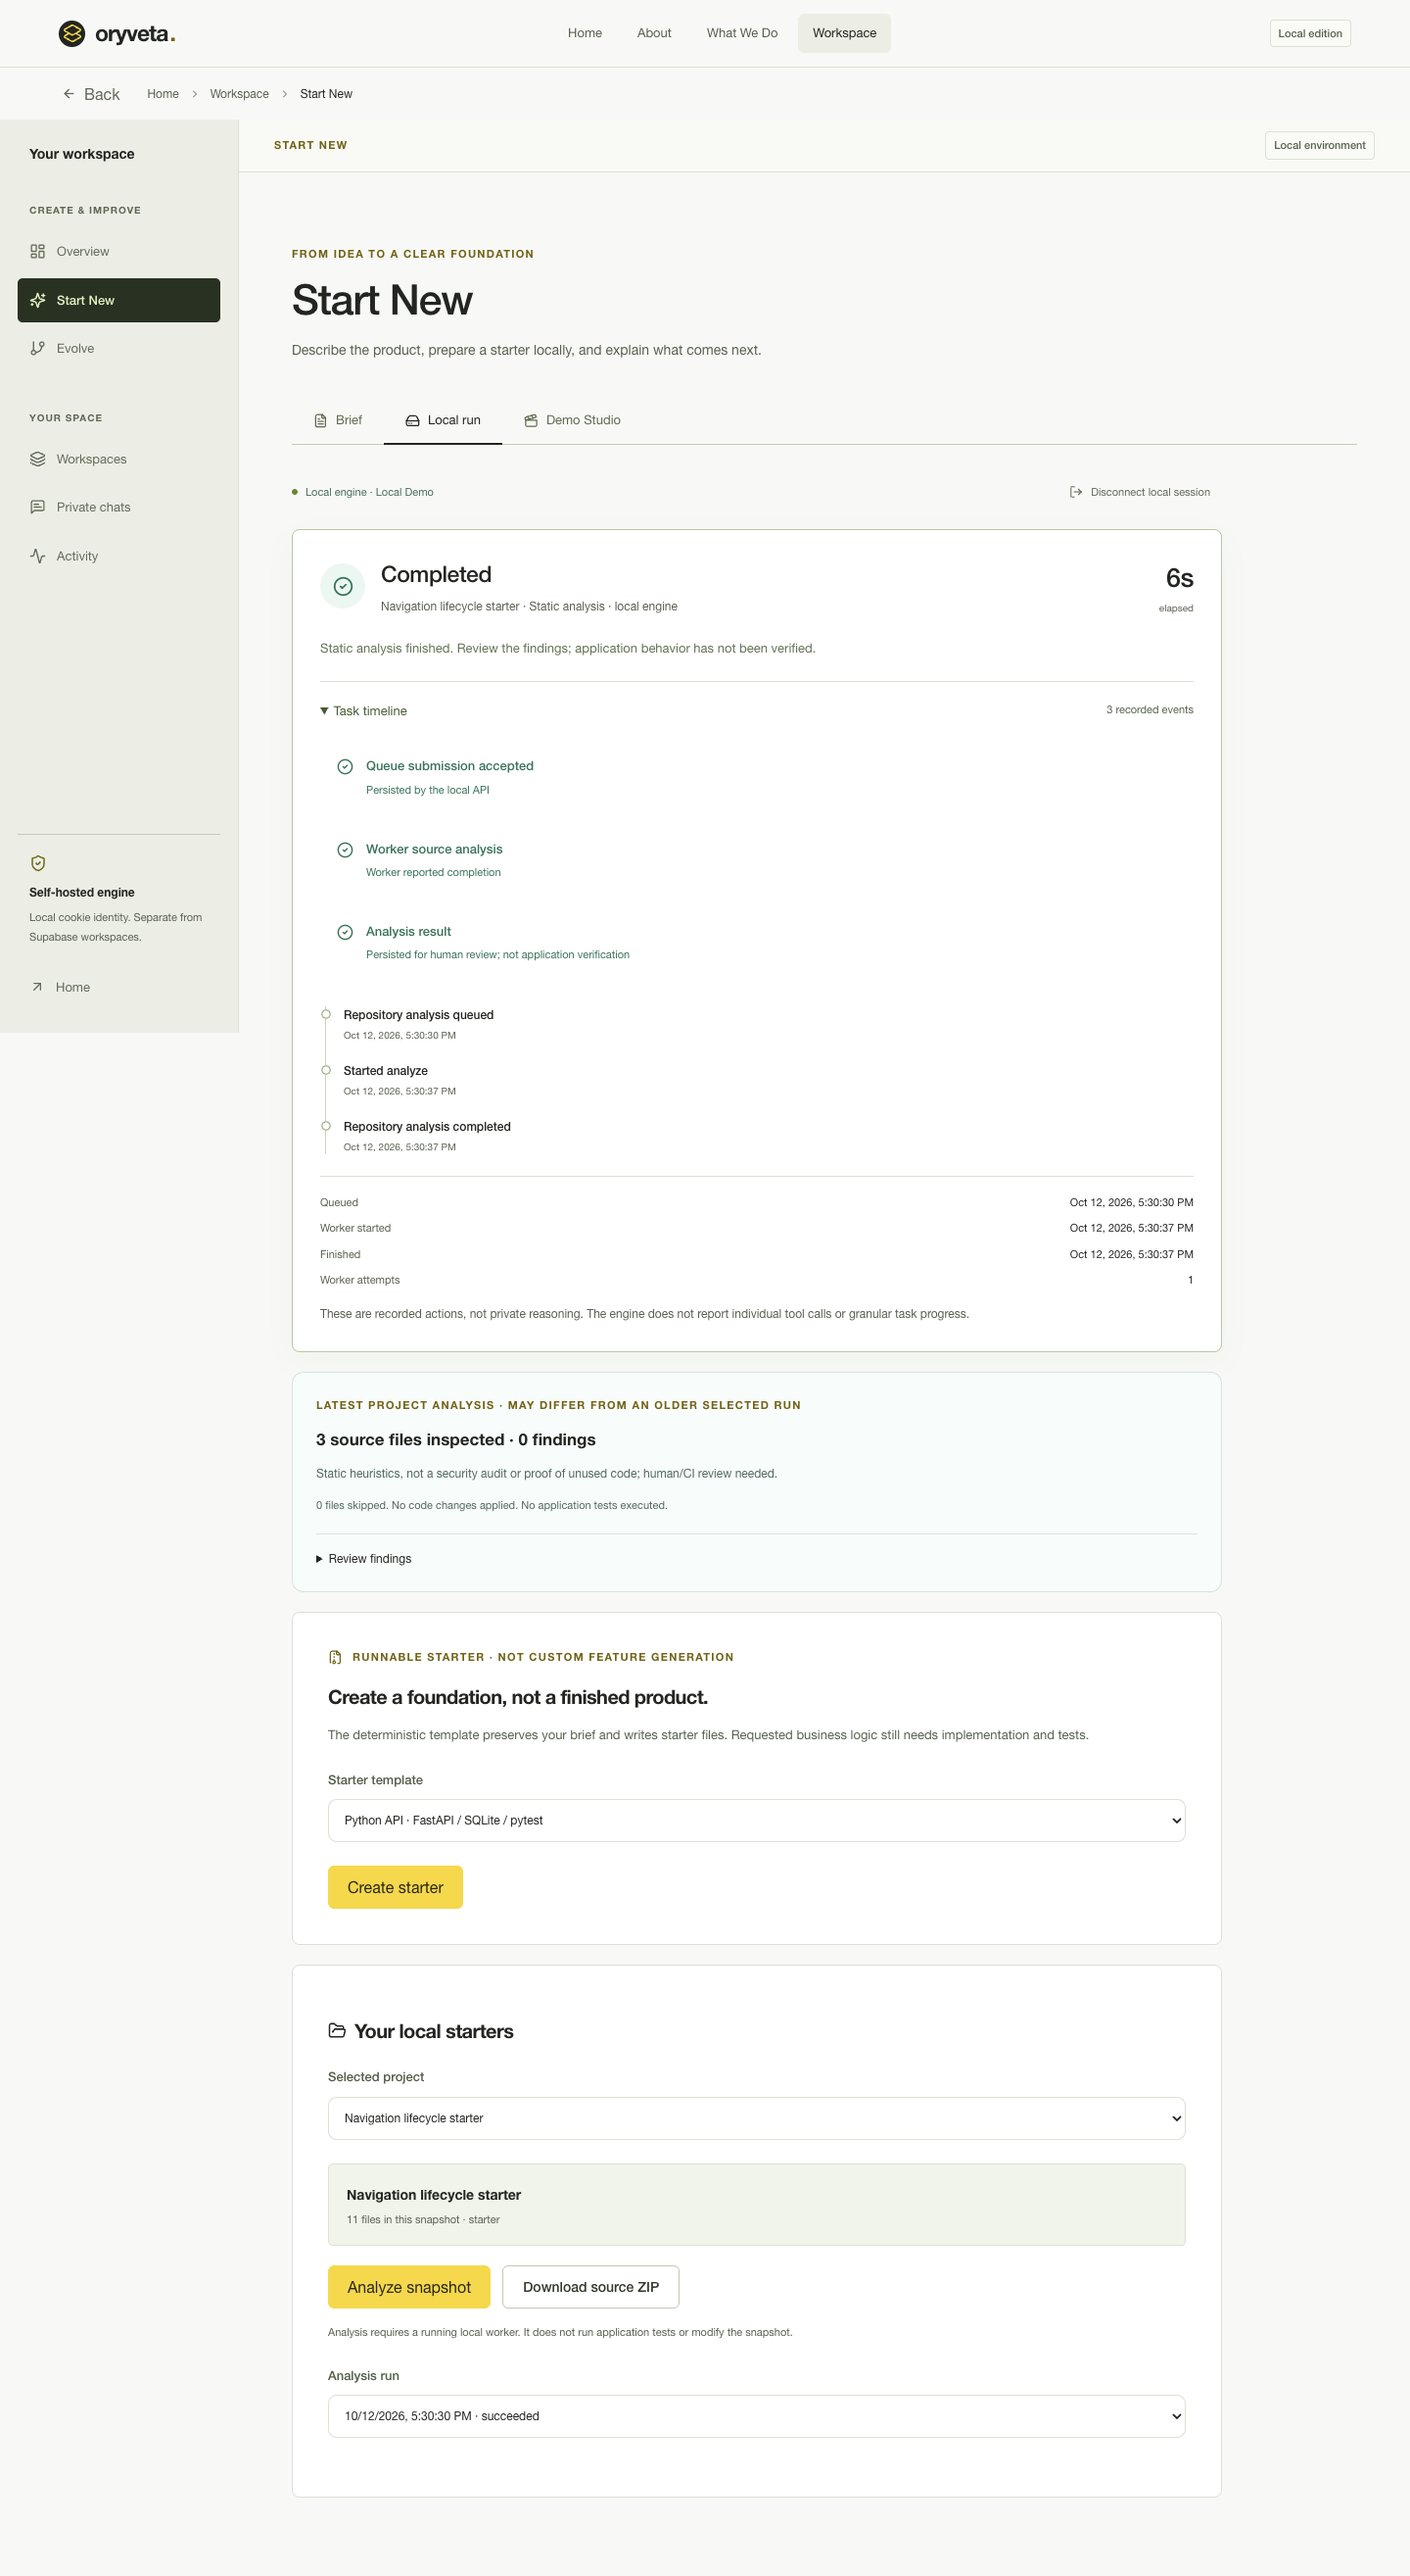
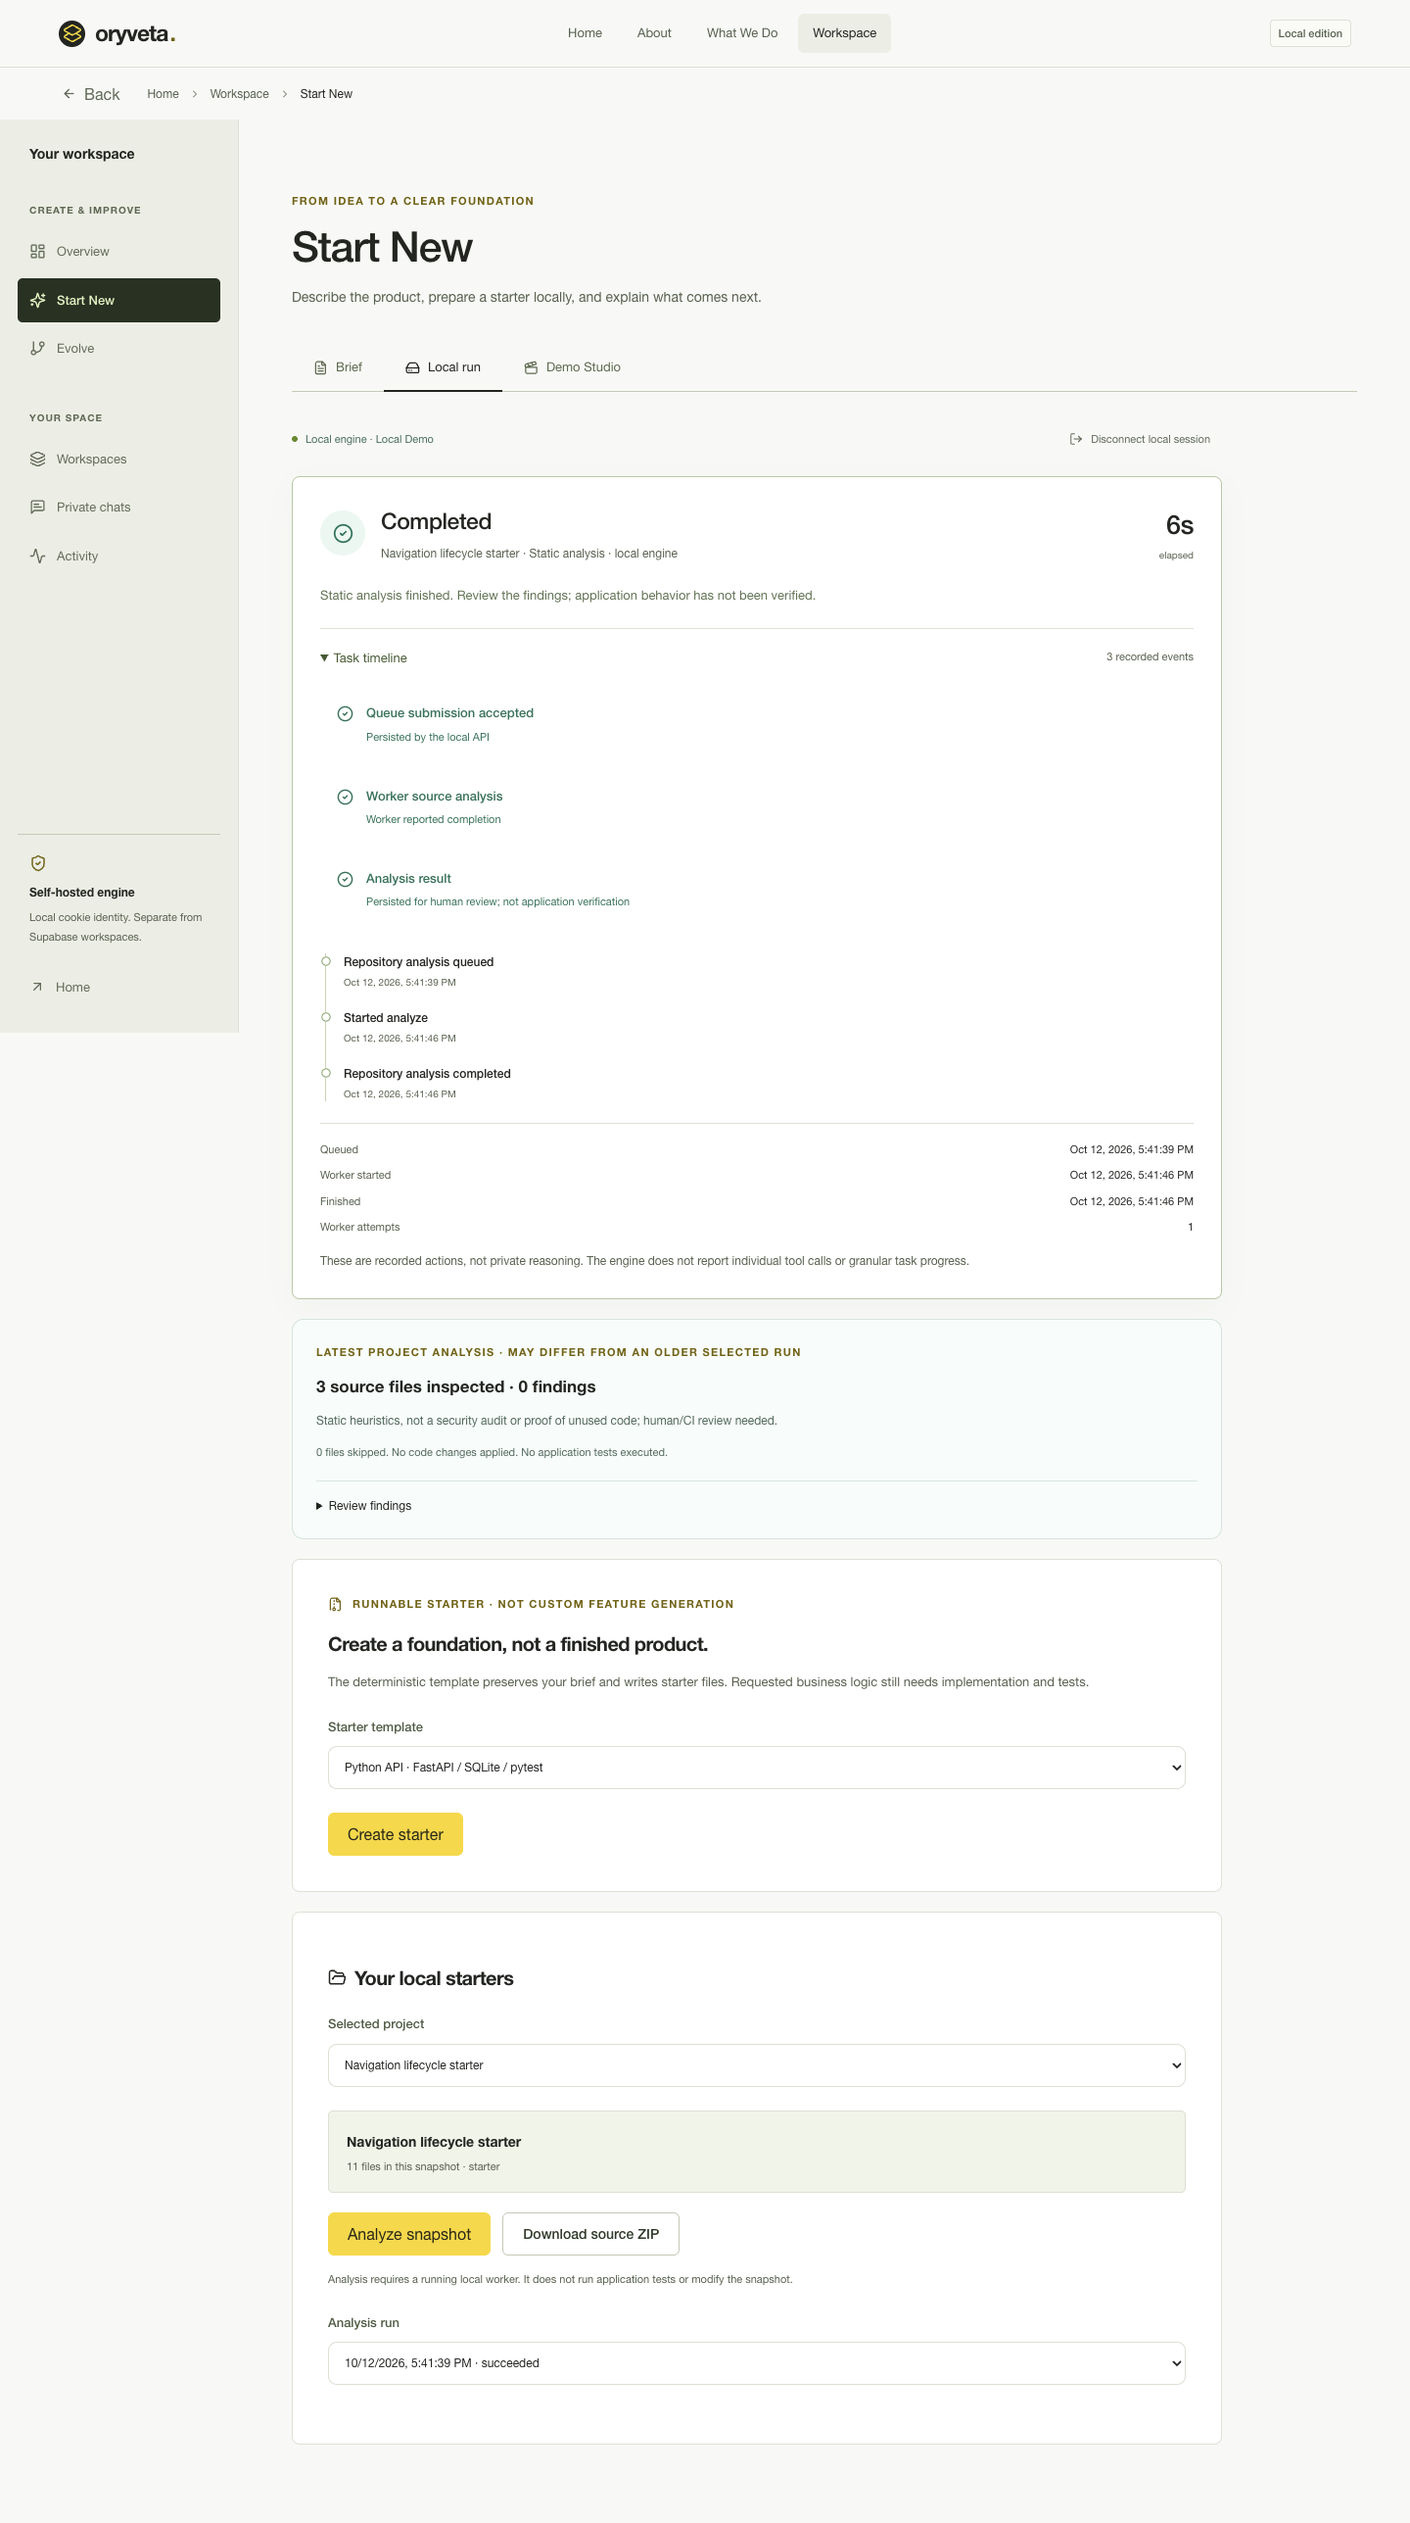
Remove duplicate workspace chrome and align legacy smoke routing

diff --git a/apps/web/studio/src/pages/Workspace.jsx b/apps/web/studio/src/pages/Workspace.jsx
@@ -92,7 +92,6 @@ export default function Workspace({
   const draft = ownsLocalSelection
     ? storedDraft
     : { ...storedDraft, projectId: null, jobId: null };
-  const navigation = [...primaryNavigation, ...secondaryNavigation];
 
   async function refresh() {
     if (preview || selfHosted) return;
@@ -220,6 +219,7 @@ export default function Workspace({
     );
   }
   const locked = preview || selfHosted;
+  const hasWorkspaceSwitch = !locked && spaces.length > 0;
   return (
     <div className="workspace-shell">
       <aside className="workspace-sidebar">{sidebar()}</aside>
@@ -240,44 +240,32 @@ export default function Workspace({
         {sidebar()}
       </dialog>
       <div className="workspace-content">
-        <div className="workspace-topbar">
-          <div className="flex items-center gap-3 min-w-0">
-            <Button
-              size="icon"
-              variant="ghost"
-              className="mobile-menu-trigger"
-              onClick={() => mobileNav.current.showModal()}
-              aria-label="Open workspace menu"
+        <div
+          className={`workspace-controls ${hasWorkspaceSwitch ? "has-workspace-switch" : ""}`}
+        >
+          <Button
+            size="icon"
+            variant="ghost"
+            className="mobile-menu-trigger"
+            onClick={() => mobileNav.current.showModal()}
+            aria-label="Open workspace menu"
+          >
+            <Menu size={20} />
+          </Button>
+          {hasWorkspaceSwitch && (
+            <select
+              className="workspace-switch"
+              aria-label="Active workspace"
+              value={active?.id || ""}
+              onChange={(event) => setSelected(event.target.value)}
             >
-              <Menu size={20} />
-            </Button>
-            <span className="section-label">
-              {navigation.find((item) => item[0] === page)?.[2]}
-            </span>
-          </div>
-          <div className="flex items-center gap-3">
-            {!locked && spaces.length > 0 && (
-              <select
-                className="workspace-switch"
-                aria-label="Active workspace"
-                value={active?.id || ""}
-                onChange={(event) => setSelected(event.target.value)}
-              >
-                {spaces.map((space) => (
-                  <option key={space.id} value={space.id}>
-                    {space.name}
-                  </option>
-                ))}
-              </select>
-            )}
-            <span className="status-tag">
-              {selfHosted
-                ? "Local environment"
-                : preview
-                  ? "Preview"
-                  : "Signed in"}
-            </span>
-          </div>
+              {spaces.map((space) => (
+                <option key={space.id} value={space.id}>
+                  {space.name}
+                </option>
+              ))}
+            </select>
+          )}
         </div>
         <main className="workspace-main" id="main-content" tabIndex={-1}>
           {!selfHosted && (

diff --git a/apps/web/studio/src/index.css b/apps/web/studio/src/index.css
@@ -69,8 +69,6 @@ main[tabindex="-1"]:focus { outline: none; }
 .sidebar-note strong { font-size: 12px; font-weight: 600; display: block; }
 .sidebar-note p { font-size: 11px; color: var(--muted); line-height: 1.8; margin-top: 7px; }
 .workspace-content { flex: 1; min-width: 0; }
-.workspace-topbar { min-height: 76px; display: flex; align-items: center; justify-content: space-between; gap: 16px; padding: 12px 36px; background: #f9faf5; border-bottom: 1px solid var(--border); }
-.workspace-topbar strong { font-size: 13px; font-weight: 500; }
 .workspace-switch { width: auto; max-width: 220px; min-height: 36px; padding: 6px 12px; }
 .workspace-main { max-width: 1280px; margin: auto; padding: 36px clamp(22px, 4vw, 54px) 80px; outline: none; }
 .page-heading { margin: 38px 0 36px; }
@@ -194,7 +192,6 @@ main[tabindex="-1"]:focus { outline: none; }
 @media (max-width: 1100px) {
   .section-container { width: calc(100% - 64px); }
   .workspace-sidebar { width: 210px; padding-inline: 12px; }
-  .workspace-topbar { padding-inline: 24px; }
   .brief-layout { grid-template-columns: 1fr; }
   .journey-guide { padding: 10px 0; }
   .journey-guide h3 br { display: none; }
@@ -207,12 +204,10 @@ main[tabindex="-1"]:focus { outline: none; }
   .auth-panel { padding: 24px; }
   .workspace-sidebar { display: none; }
   .workspace-main { padding-inline: 24px; }
-  .workspace-topbar { padding-inline: 20px; }
 }
 @media (max-width: 600px) {
   [id] { scroll-margin-top: 85px; }
   .section-container { width: calc(100% - 40px); }
-  .workspace-topbar { padding: 12px; }
   .workspace-switch { max-width: 110px; font-size: 10px; padding: 6px; }
   .workspace-main { padding: 20px 16px 60px; }
   .page-heading { margin-top: 28px; }

diff --git a/apps/web/studio/src/pages.css b/apps/web/studio/src/pages.css
@@ -91,7 +91,8 @@
 .workspace-shell { min-height: calc(100svh - 122px); }
 .workspace-sidebar { top: 68px; min-height: calc(100svh - 122px); height: calc(100svh - 68px); padding-top: 24px; }
 .workspace-sidebar-title { padding: 0 12px; font-size: 14px; font-weight: 600; }
-.workspace-topbar { min-height: 54px; padding-block: 8px; }
+.workspace-controls { display: none; align-items: center; justify-content: flex-end; gap: 12px; padding: 8px 24px; }
+.workspace-controls.has-workspace-switch { display: flex; }
 .workspace-main .page-heading h1 { font-size: clamp(30px, 3.3vw, 43px); }
 @media (max-width: 850px) {
   .site-header-inner { width: calc(100% - 32px); height: 62px; }
@@ -100,6 +101,7 @@
   .home-back { padding-inline: 8px; }
   .home-back span { display: none; }
   .route-trail { padding-inline: 12px; gap: 6px; }
+  .workspace-controls { display: flex; justify-content: space-between; padding: 6px 16px; }
   .home-intro { padding-top: 32px; }
   .home-next, .editorial-split, .journey-detail, .delivery-boundaries, .signin-page { grid-template-columns: 1fr; gap: 32px; }
   .home-next { padding-block: 65px; }

diff --git a/scripts/ui_smoke.py b/scripts/ui_smoke.py
@@ -1,4 +1,4 @@
-"""Browser smoke for Oryveta's hosted auth gate and engineering workspace.
+"""Browser smoke for Oryveta's preserved legacy local UI.
 
 Tests guest sign-in, explicit preview access, mobile navigation and an
 authenticated workspace lifecycle with a deterministic mocked Auth adapter.
@@ -6,7 +6,6 @@ No real OAuth secrets or external identity calls run in CI.
 """
 from __future__ import annotations
 
-import json
 import threading
 from http.server import SimpleHTTPRequestHandler, ThreadingHTTPServer
 from pathlib import Path
@@ -14,8 +13,6 @@ from pathlib import Path
 from playwright.sync_api import sync_playwright
 
 ROOT = Path(__file__).resolve().parents[1] / "apps" / "web"
-CONFIG = json.loads((ROOT / "vercel.json").read_text(encoding="utf-8"))
-REWRITES = {item["source"]: item["destination"] for item in CONFIG["rewrites"]}
 
 
 class StaticHandler(SimpleHTTPRequestHandler):
@@ -32,7 +29,10 @@ class StaticHandler(SimpleHTTPRequestHandler):
         super().do_GET()
 
     def translate_path(self, path):
-        return super().translate_path(REWRITES.get(path, path))
+        # Match FastAPI's local /static mount, not the separate hosted React build.
+        if path.startswith("/static/"):
+            path = path[len("/static"):]
+        return super().translate_path(path)
 
 
 FAKE_AUTH = """
@@ -59,8 +59,6 @@ FAKE_AUTH = """
 
 
 def run() -> None:
-    for name in ("app.js", "styles.css", "cloud-auth.js", "cloud-config.js"):
-        assert REWRITES["/static/" + name] == "/" + name
     server = ThreadingHTTPServer(("127.0.0.1", 0), StaticHandler)
     thread = threading.Thread(target=server.serve_forever, daemon=True)
     thread.start()
@@ -77,6 +75,10 @@ def run() -> None:
                 page.on("pageerror", lambda err: errors.append(str(err)))
                 response = page.goto(url, wait_until="networkidle", timeout=30000)
                 assert response is not None and response.status == 200
+                for name in ("app.js", "styles.css", "cloud-auth.js", "cloud-config.js", "experience.js"):
+                    asset = page.request.get(f"http://127.0.0.1:{server.server_port}/static/{name}")
+                    assert asset.status == 200
+                    assert asset.body() == (ROOT / name).read_bytes()
                 assert page.locator("#login").is_visible()
                 assert not page.locator("#app").is_visible()
                 assert page.locator("#github-login").is_hidden()

diff --git a/docs/DESIGN-SYSTEM.md b/docs/DESIGN-SYSTEM.md
@@ -16,7 +16,7 @@ No paid source, template video/models, brands, customer claims, expired countdow
 
 ## Compact shared navigation
 
-A single shared header exposes **Home / About / What We Do / Workspace**, the Home logo, and the appropriate hosted sign-in action or local-edition label. It does not repeat a giant page title. A separate compact trail offers Back and semantic linked breadcrumbs. Native links support opening a route in a new tab. A direct-entry Back action falls back to Home, which resolves to `/studio/` locally, never the legacy `/` interface.
+A single shared header exposes **Home / About / What We Do / Workspace**, the Home logo, and the appropriate hosted sign-in action or local-edition label. It does not repeat a giant page title. A separate compact trail offers Back and semantic linked breadcrumbs. Workspace context controls contain only the functional workspace switcher or mobile menu trigger; there is no duplicate page/environment topbar or empty desktop bar. Native links support opening a route in a new tab. A direct-entry Back action falls back to Home, which resolves to `/studio/` locally, never the legacy `/` interface.
 
 React Router owns pathname and query history. `BrowserRouter` uses Vite's `BASE_URL` as its basename. Hosted `npm run build` uses `/` and writes `dist`; `npm run build:local` uses `--mode selfhost`, `/studio/`, and a separate `dist-local`. FastAPI serves extensionless local page URLs with the SPA index; asset-like and reserved paths remain real 404s. Unknown page routes render an honest page-not-found view. Vercel serves the hosted SPA. The same source produces both builds without relative-asset ambiguity on deep reload.
 

diff --git a/docs/STATUS.md b/docs/STATUS.md
@@ -1,6 +1,6 @@
 # Oryveta implementation status
 
-Navigation and dimensional interaction milestone — 2026-10-13 (unpublished branch).
+Navigation and dimensional interaction milestone — 2026-10-13 ([PR #26](https://github.com/suhasaitham22/Oryveta/pull/26), unmerged).
 
 The `apps/web/studio` Vite React app produces the hosted product UI in `dist` and the self-hosted local UI in `dist-local`; FastAPI serves the latter at `/studio/` with extensionless deep-route fallback and strict asset/API path handling. The legacy vanilla-JS `apps/web/index.html` and root `/` path remain self-hosted compatibility paths. Hosted React and local FastAPI identity/engine sessions are deliberately separate; no hosted engine bridge exists.
 
